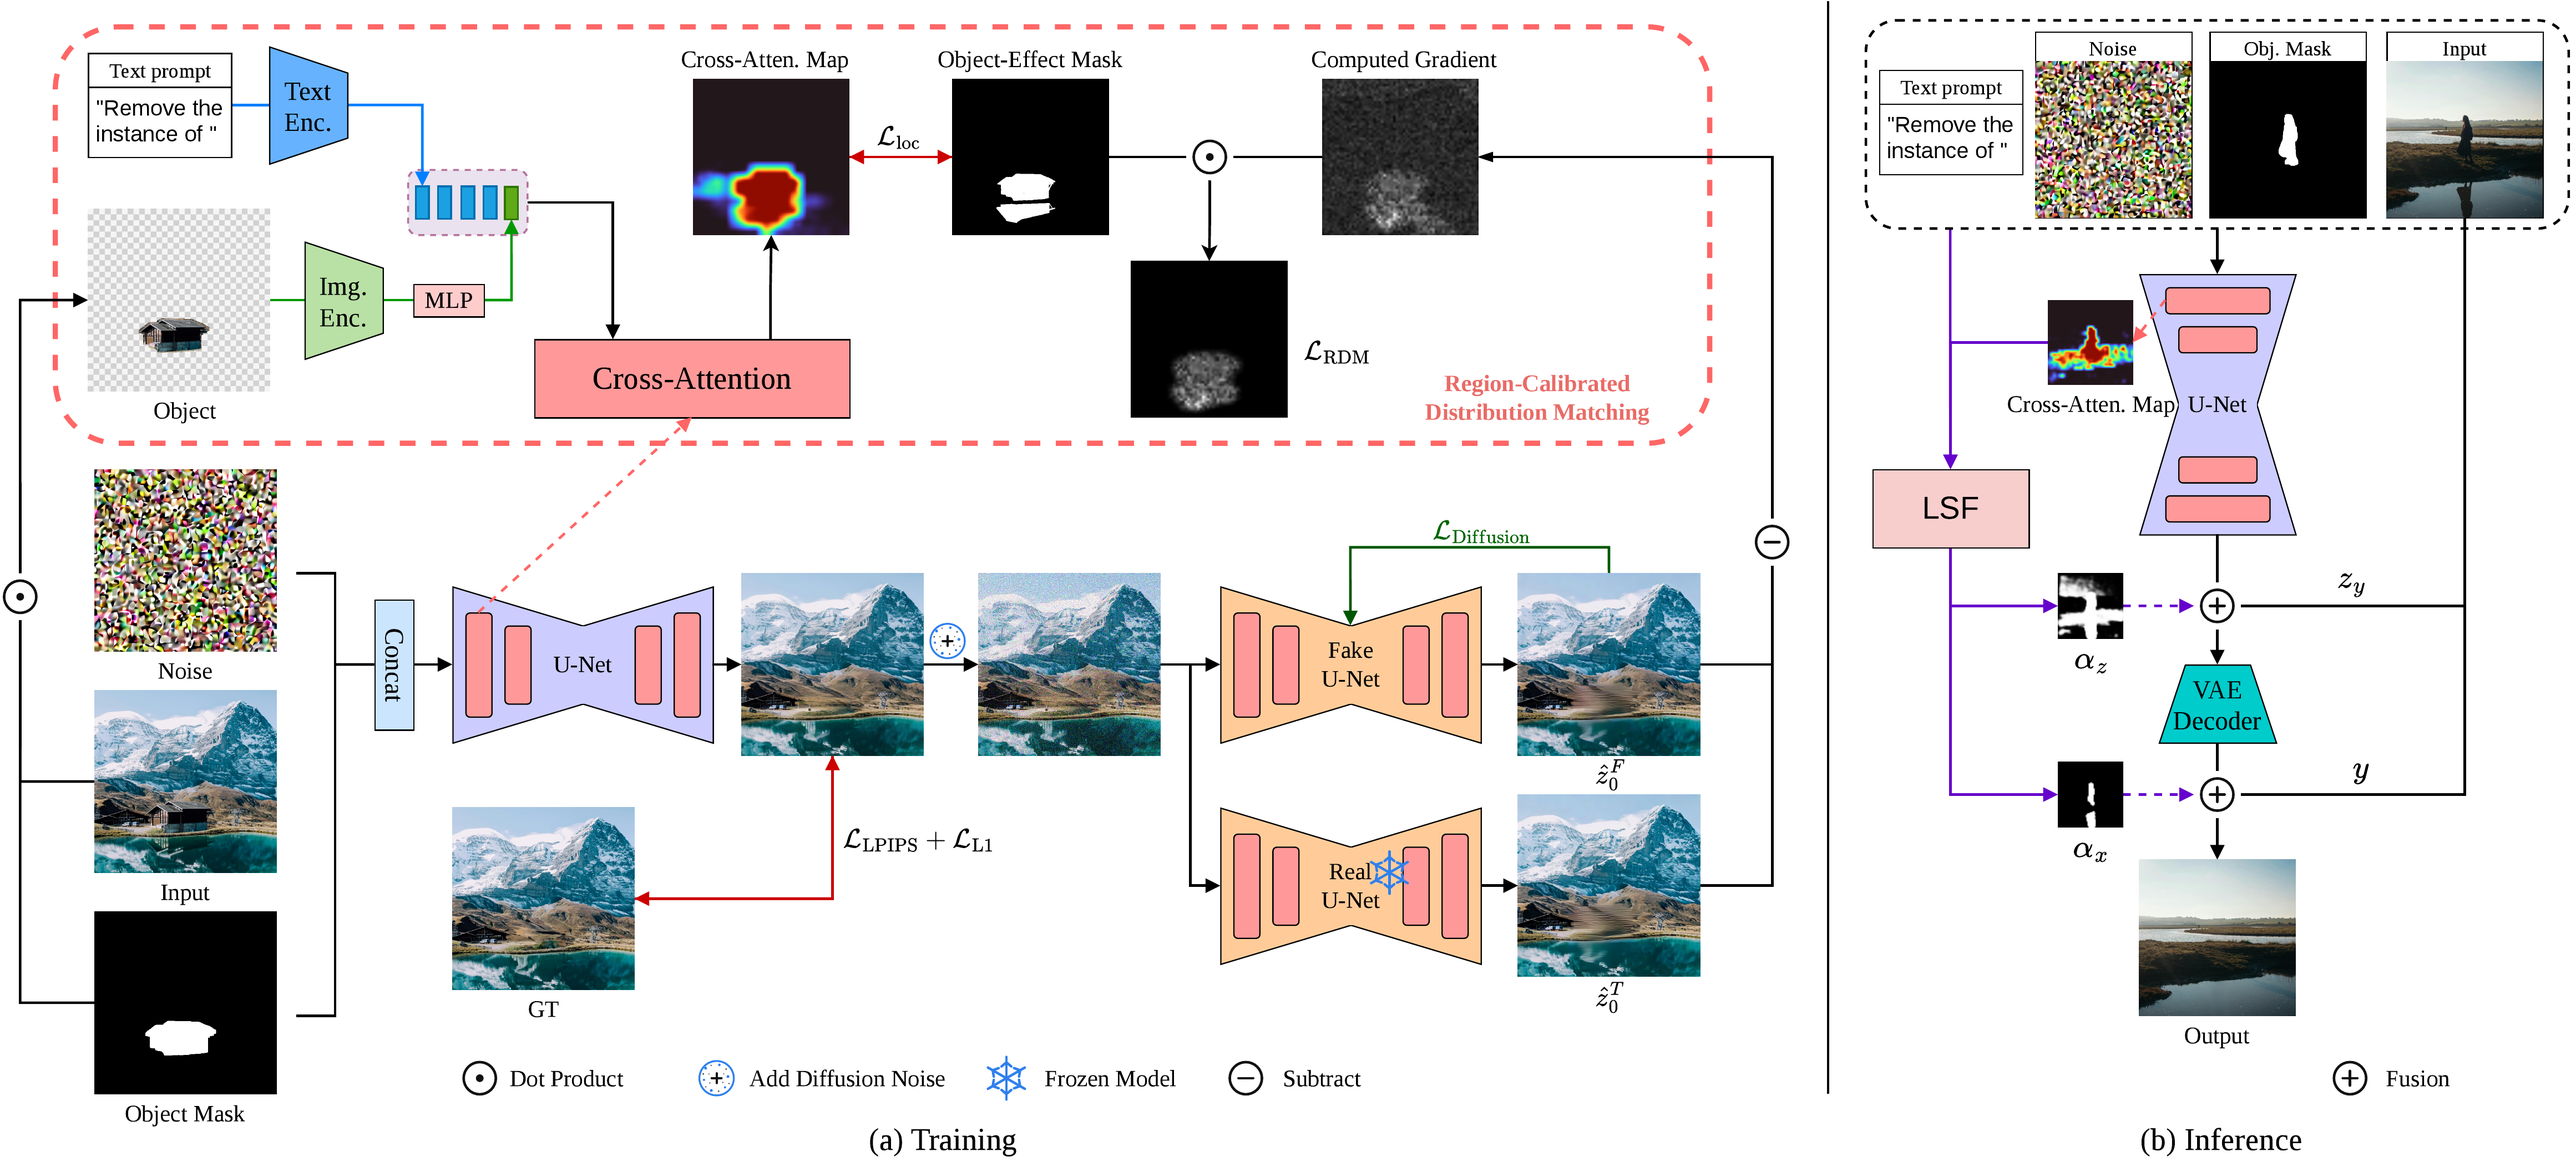
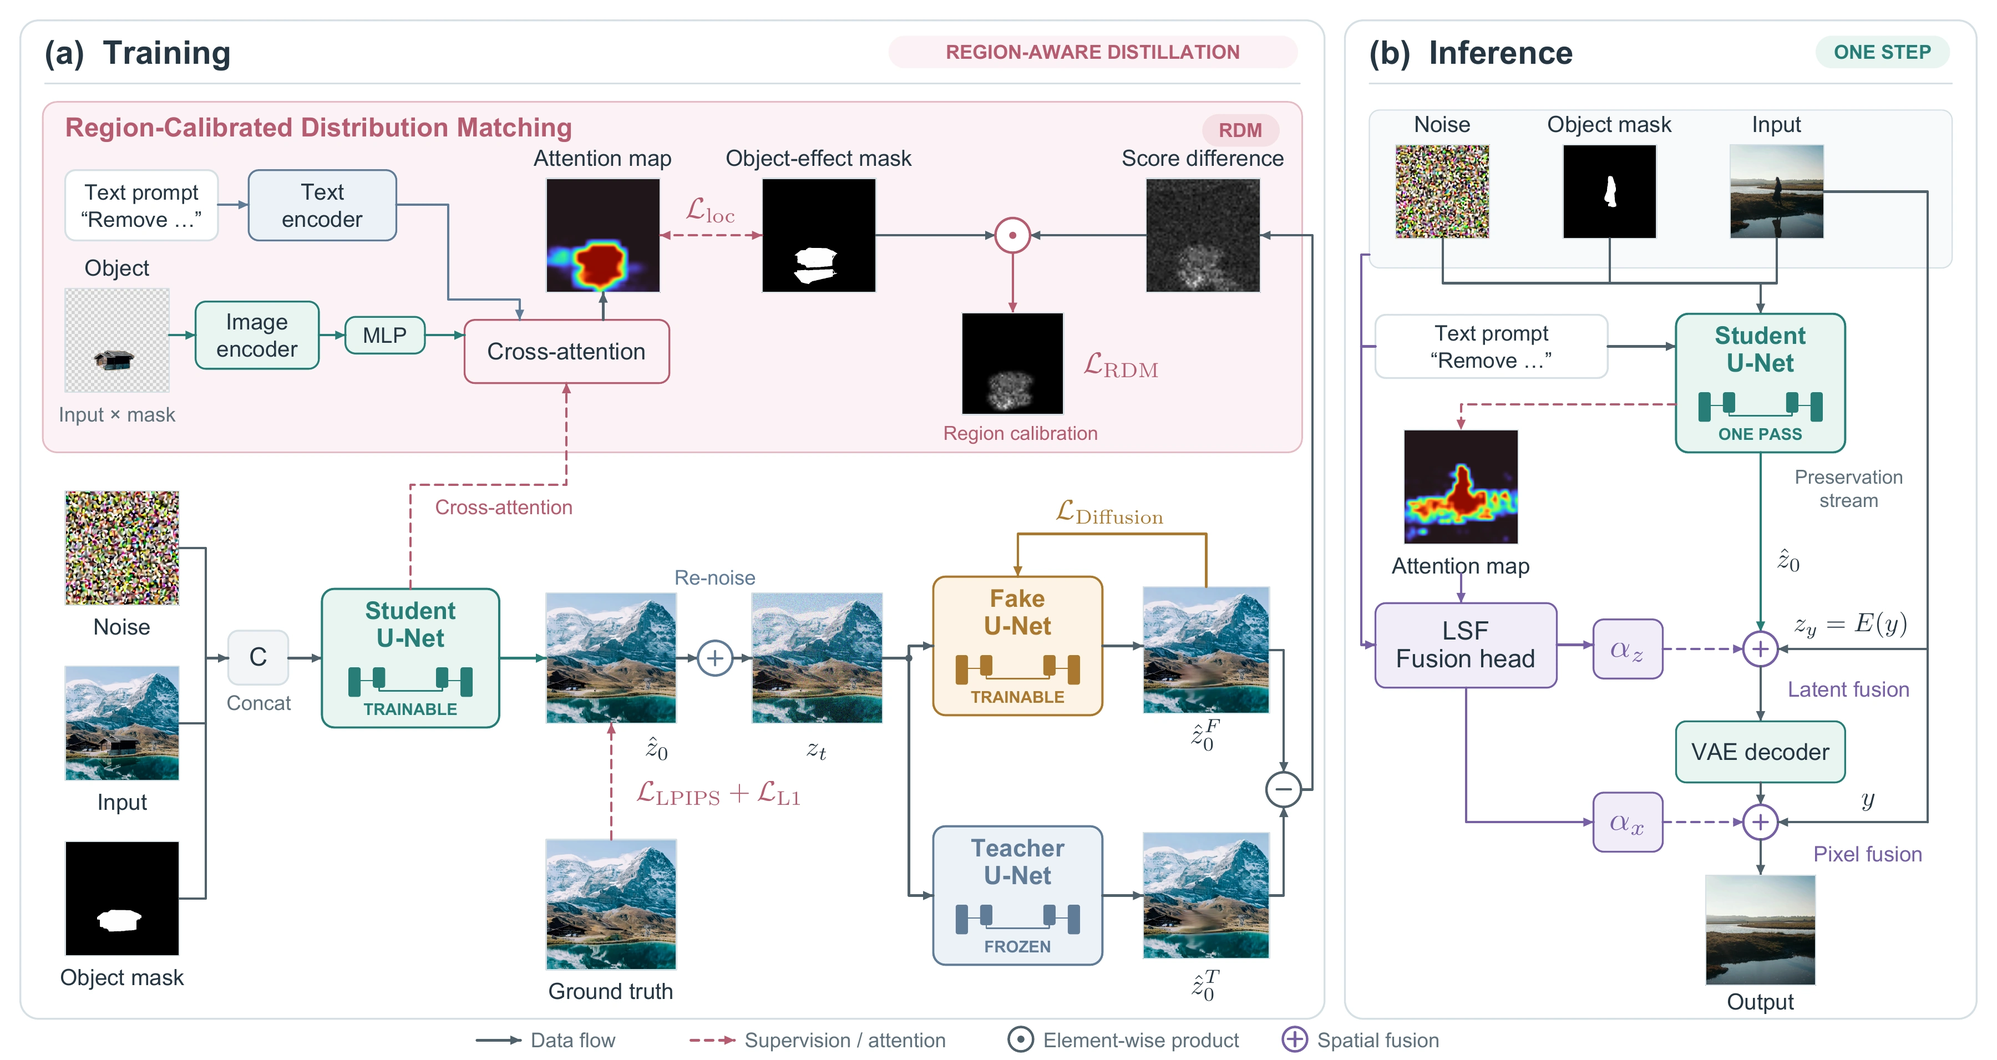
docs: sync project visuals with updated paper figures

diff --git a/index.html b/index.html
@@ -70,7 +70,7 @@
           <article class="comparison" style="--position: 52%">
             <img class="comparison-after" src="assets/images/318-result.webp" alt="Calm lake after TurboClear removes a sailboat and its reflection">
             <div class="comparison-before">
-              <img src="assets/images/318-input.webp" alt="Sailboat and reflection selected with a green mask">
+              <img src="assets/images/318-input.webp" alt="Sailboat selected with a green mask on a calm lake">
             </div>
             <input type="range" min="0" max="100" value="52" aria-label="Compare masked sailboat input and TurboClear result">
             <div class="comparison-handle" aria-hidden="true"><span>&harr;</span></div>
@@ -79,22 +79,22 @@
           </article>
 
           <article class="comparison" style="--position: 50%">
-            <img class="comparison-after" src="assets/images/188-result.webp" alt="Pasture after TurboClear removes a foreground sheep">
+            <img class="comparison-after" src="assets/images/230-result.webp" alt="Waterfall after TurboClear removes a person and their shadow">
             <div class="comparison-before">
-              <img src="assets/images/188-input.webp" alt="Foreground sheep selected with a green mask in a pasture">
+              <img src="assets/images/230-input.webp" alt="Person selected with a green mask in front of a waterfall">
             </div>
-            <input type="range" min="0" max="100" value="50" aria-label="Compare masked sheep input and TurboClear result">
+            <input type="range" min="0" max="100" value="50" aria-label="Compare masked person input and TurboClear result">
             <div class="comparison-handle" aria-hidden="true"><span>&harr;</span></div>
             <span class="image-label label-before">Input + mask</span>
             <span class="image-label label-after">TurboClear</span>
           </article>
 
           <article class="comparison" style="--position: 48%">
-            <img class="comparison-after" src="assets/images/328-result.webp" alt="Brick and stucco wall after TurboClear removes a basketball hoop and its shadow">
+            <img class="comparison-after" src="assets/images/181-result.webp" alt="Basketball court after TurboClear removes a foreground player and their shadow">
             <div class="comparison-before">
-              <img src="assets/images/328-input.webp" alt="Basketball hoop selected with a green mask on a brick and stucco wall">
+              <img src="assets/images/181-input.webp" alt="Foreground basketball player selected with a green mask">
             </div>
-            <input type="range" min="0" max="100" value="48" aria-label="Compare masked basketball hoop input and TurboClear result">
+            <input type="range" min="0" max="100" value="48" aria-label="Compare masked basketball player input and TurboClear result">
             <div class="comparison-handle" aria-hidden="true"><span>&harr;</span></div>
             <span class="image-label label-before">Input + mask</span>
             <span class="image-label label-after">TurboClear</span>
@@ -129,25 +129,25 @@
         <div class="section-heading centered">
           <p class="eyebrow">Qualitative results</p>
           <h2 id="results-title">Objects disappear. Structure stays.</h2>
-          <p>Examples selected from the qualitative comparison in the paper.</p>
+          <p>Five OBER-Wild examples from the updated qualitative comparison in the paper.</p>
         </div>
         <div class="result-grid">
           <article class="comparison" style="--position: 50%">
-            <img class="comparison-after" src="assets/images/295-result.webp" alt="Patio after TurboClear removes a foreground chair">
+            <img class="comparison-after" src="assets/images/190-result.webp" alt="Reflective water after TurboClear removes an island and its reflection">
             <div class="comparison-before">
-              <img src="assets/images/295-input.webp" alt="Foreground chair selected with a green mask on a patio">
+              <img src="assets/images/190-input.webp" alt="Island selected with a green mask against a sunset sky">
             </div>
-            <input type="range" min="0" max="100" value="50" aria-label="Compare masked chair input and TurboClear result">
+            <input type="range" min="0" max="100" value="50" aria-label="Compare masked island input and TurboClear result">
             <div class="comparison-handle" aria-hidden="true"><span>&harr;</span></div>
             <span class="image-label label-before">Input + mask</span>
             <span class="image-label label-after">TurboClear</span>
           </article>
           <article class="comparison" style="--position: 50%">
-            <img class="comparison-after" src="assets/images/451-result.webp" alt="Open field after TurboClear removes a foreground cow and its shadow">
+            <img class="comparison-after" src="assets/images/207-result.webp" alt="Sunset over water after TurboClear removes a boat and its reflection">
             <div class="comparison-before">
-              <img src="assets/images/451-input.webp" alt="Foreground cow selected with a green mask">
+              <img src="assets/images/207-input.webp" alt="Boat selected with a green mask on water at sunset">
             </div>
-            <input type="range" min="0" max="100" value="50" aria-label="Compare masked cow input and TurboClear result">
+            <input type="range" min="0" max="100" value="50" aria-label="Compare masked boat input and TurboClear result">
             <div class="comparison-handle" aria-hidden="true"><span>&harr;</span></div>
             <span class="image-label label-before">Input + mask</span>
             <span class="image-label label-after">TurboClear</span>
@@ -155,8 +155,8 @@
         </div>
 
         <figure class="wide-figure">
-          <img src="assets/images/full-comparison.webp" alt="Full qualitative comparison of TurboClear and prior object removal methods" loading="lazy">
-          <figcaption>Extended comparison across representative OBER-Test examples. The complete figure is retained for detailed inspection rather than used as the primary visual.</figcaption>
+          <img src="assets/images/full-comparison.webp?v=20261027" alt="Full qualitative comparison of TurboClear and prior object removal methods" loading="lazy">
+          <figcaption>Comparison on five representative OBER-Wild samples, in the same row and method order as the updated paper.</figcaption>
         </figure>
       </section>
 
@@ -167,7 +167,7 @@
             <h2 id="method-title">Region-aware distillation, spatially learned fusion</h2>
           </div>
           <figure class="method-figure">
-            <img src="assets/images/pipeline.webp" alt="TurboClear training and inference pipeline with RDM and LSF" loading="lazy">
+            <img src="assets/images/pipeline.webp?v=20261027" alt="TurboClear training and inference pipeline with RDM and LSF" loading="lazy">
             <figcaption>
               RDM calibrates distribution matching across affected and preserved regions during training. At inference, LSF predicts latent- and pixel-space gates to combine the generated output with the input stream.
             </figcaption>
